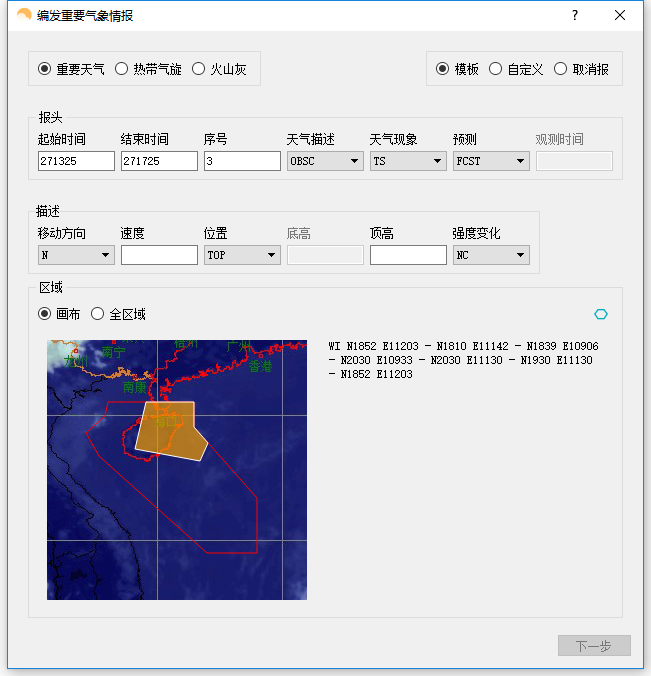
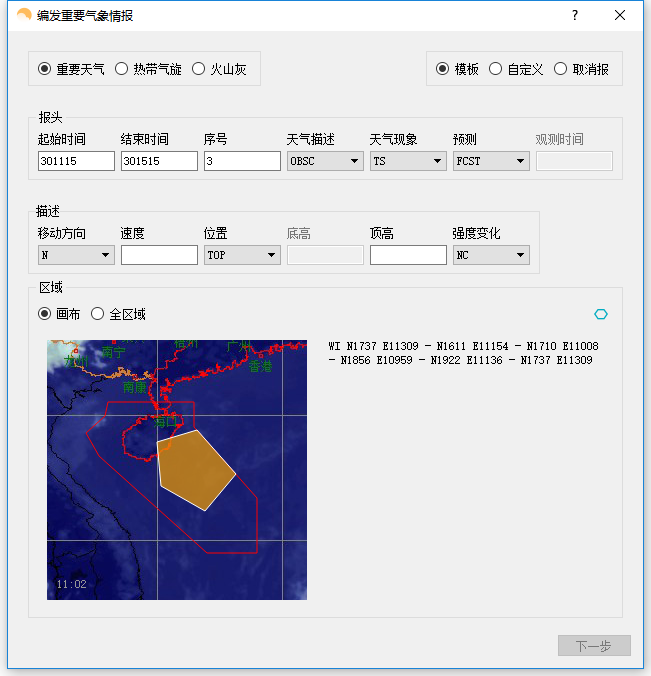
更新文档

Changed region(s): [[0.1843, 0.5902, 0.3687, 0.7766], [0.5223, 0.5281, 0.6452, 0.5592]]

diff --git a/docs/guide.rst b/docs/guide.rst
@@ -182,15 +182,17 @@ AFTN 参数
       "size": [
         376, 
         376
-      ]
+      ],
+      "updated": "Mon, 30 Jul 2018 21:33:00 GMT"
     }
 
 
-- **boundaries** 情报区的边界，用一组点表示
+- **boundaries** 情报区的边界，用一组点表示，顺时针排列
 - **coordinates** 卫星云图的经纬度坐标范围，标记左上角到右下角两个点，用十进制经度，纬度表示
 - **image** 当前时刻最新的卫星云图地址
 - **rect** SIGMET 编辑区域显示的区域大小和位置，前两个参数表示区域的起始点 x、y，后两个参数表示区域的宽和高，单位像素
 - **size** 卫星云图的宽和高，单位像素
+- **updated** 卫星云图更新的时间，世界时
 
 
 电话服务
@@ -305,7 +307,11 @@ SIGMET 报文的编辑
 
 报文的起始时间、结束时间、发布序号会自动生成。
 
-天气区域的选择主要有三种方式，点，线和经纬度，点击区域右上角的 **淡蓝色图标** 可在三种状态之间切换。
+SIGMET 区域的编辑有两种模式，**画布模式** 和 **文本模式**：
+
+文本模式提供基础的经纬度输入，如果在设置 -> 数据源中开启了情报区信息地址，文本模式的编辑项会自动隐藏。
+
+画布模式会每 10 分钟加载一次最新的云图，并且在画布的左下角显示云图的更新时间，区域编辑方式主要有三种，点，线和经纬度，点击区域右上角的 **淡蓝色图标** 可在三种状态之间切换。
 
 **点**
 
@@ -332,6 +338,8 @@ SIGMET 报文的编辑
     * :kbd:`鼠标左键` 添加初始坐标点，同时按住 :kbd:`鼠标左键` 拖拽不放可以框选区域，如上图蓝色部分所示，松开 :kbd:`鼠标左键` 完成区域的选定
 
     * :kbd:`鼠标右键` 删除整个区域
+
+    * 在编辑完成时，如果某条线的长度小于 0.5 度，则该条线不会被编入到报文中
       
 已发送的 SIGMET 在有效期内会在底图中显示，图中的编号为 SIGMET 编号。
 

diff --git a/docs/install.rst b/docs/install.rst
@@ -78,13 +78,13 @@ Tafor 的发行版同样放在 GitHub, 你可以在这里 `下载 <https://githu
 
 安装 `Python`::
 
-    $ pyenv install 3.6.1
+    $ pyenv install 3.6.5
 
 把 :file:`tafor/scripts/` 目录下的文件放入 :file:`/var/www/tafor_api` 目录下，
 创建虚拟环境并安装依赖::
 
     $ cd /var/www/tafor_api
-    $ pyenv virtualenv 3.6.1 tafor_api
+    $ pyenv virtualenv 3.6.5 tafor_api
     $ pyenv activate tafor_api
     $ pip install -r requirements.txt
 
@@ -112,7 +112,7 @@ Tafor 的发行版同样放在 GitHub, 你可以在这里 `下载 <https://githu
 
     [program:tafor_api]
     environment = TAFOR_API_ENV=prod
-    command = /home/user/.pyenv/versions/tafor_api/bin/gunicorn tafor:app --workers 1 --bind unix:tafor_api.sock -m 007
+    command = /home/user/.pyenv/versions/tafor_api/bin/gunicorn tafor:app --workers 1 --bind unix:tafor_api.sock -m 644
     directory = /var/www/tafor_api
     user = root
     startsecs = 0
